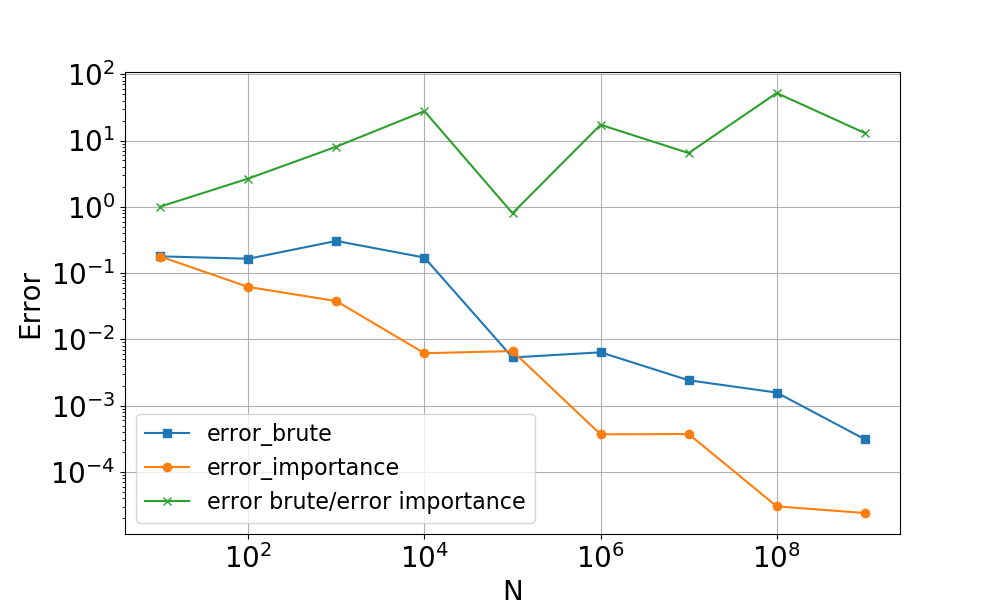
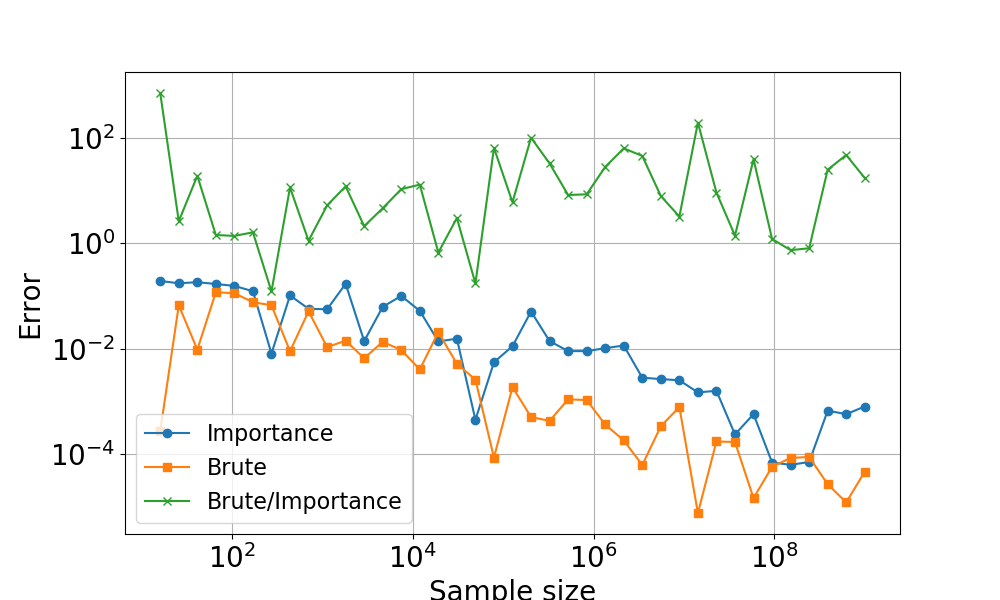
New data and files + writing

diff --git a/Project3/latex/methods.tex b/Project3/latex/methods.tex
@@ -116,7 +116,7 @@ $\phi_1, \phi_2 \in \brak{0, 2\pi}$.
 
 
 \subsection{Gaussian Quadrature}
-Any quadrature rule can be seen as the as sum of the function we are  
+Any quadrature rule can be seen as the as sum of the function we are
 integrating evaluated at specified sample points or integration points $x_i$
 multiplied with a weight $w_i$ \cref{eq:quad_sum}.
 \begin{equation}\label{eq:quad_sum}
@@ -125,27 +125,27 @@ multiplied with a weight $w_i$ \cref{eq:quad_sum}.
 For Gaussian Quadrature (GQ) the
 integration points are given by the roots of an orthogonal polynomial. The
 integration weights are calculated by finding the inverse of a matrix defined by
-the orthogonal polynomial \cref{eq:ort_matrix}.       
+the orthogonal polynomial \cref{eq:ort_matrix}.
 
 \begin{equation}\label{eq:ort_matrix}
   L = \begin{bmatrix}
     L_0(x_0) & L_1(x_0) & \dots & L_{N-1}(x_{0}) \\
     L_0(x_1) & L_1(x_1) & \dots & L_{N-1}(x_{1}) \\
     \\
-    L_0(x_{n-1}) & L_1(x_{n-1}) & \dots & L_{N-1}(x_{n-1}) 
+    L_0(x_{n-1}) & L_1(x_{n-1}) & \dots & L_{N-1}(x_{n-1})
   \end{bmatrix}
 \end{equation}
 The different orthogonal polynomial are defined over specific intervals, for
 instance Legendre polynomials are defined for $x \in [-1, 1]$. Legendre
 polynomials can still be used to for solving integrals over with limits other
-than $[-1,1]$ by using transformation of variables. 
+than $[-1,1]$ by using transformation of variables.
 \begin{equation}
   t = \frac{b-a}{2}x + \frac{b+a}{2}
-\end{equation} 
+\end{equation}
 Then rewrite integral for an interval $[a,b]$,
 \begin{equation}
   \int_a^b f(t)dt = \frac{b-a}{2}\int_{-1}^{1} f\left(\frac{b-a}{2}x + \frac{b+a}{2}\right)
-\end{equation} 
+\end{equation}
 
 An issue with using Legendre polynomials to generate our sample points and
 weight is that the physical problem \cref{eq:int} we are interested in involves an
@@ -159,5 +159,13 @@ which are defined in the following way.
 \end{equation}
 Something that is important to note about Laguerre polynomials is that
 $e^{-\alpha x}$ is baked into weights which means that we have to divide
-\cref{eq:int_spherical} by $e^{-(r_1 + r_2)}$. 
+\cref{eq:int_spherical} by $e^{-(r_1 + r_2)}$.
 
+
+
+\subsection{Experimental setup}
+
+The code was run on a laptop with eight cores. For the MCI the number of samples
+for each experiment was taken on logarithmic intervals, with 40 different values
+of sample points between 10 and 10$^9$. The QG experiments were run with the number
+of integration points between 2 and 40.

diff --git a/Project3/latex/results.tex b/Project3/latex/results.tex
@@ -1,17 +1,5 @@
 \section{Results}
 
-\subsection{Gaussian Quadrature}
-
-\begin{figure}[H]
-  \centering
-  \includegraphics[width=0.8\textwidth]{../figures/gauss_error.png}
-  \caption{Absolute value of difference between gaussian quadrature results and analytical
-  solution using Legendre and Laguerre polynomials..}
-
-  \label{fig:gauss_error}
-\end{figure}
-
-
 \subsection{Monte-Carlo integration}
 
 \subsubsection{Error and accuracy}
@@ -62,13 +50,41 @@ a great boost to the run time.
 \end{figure}
 
 
-\subsubsection{Comparison of Gaussian Quadrature and Monte-Carlo Integration}
+\subsection{Gaussian Quadrature}
+
+The error of the GQ methods \cref{fig:gauss_error} shows that GQLeg gives relatively
+low(high) errors when the number of integration points are odd(even). For GQLeg
+the error seems to converge around roughly \num{ 5e-3}, and never reaches the
+desired error of $10^{-3}$. The GQLag do reach the desired error at N = 14 and 15,
+but for higher Ns the error converges to \num{2e-3}, and does not show the oscillatory
+nature of the GQLeg.
+
+\begin{figure}[H]
+  \centering
+  \includegraphics[width=0.8\textwidth]{../figures/gauss_error.png}
+  \caption{Absolute value of difference between gaussian quadrature results and analytical
+  solution using Legendre and Laguerre polynomials..}
+
+  \label{fig:gauss_error}
+\end{figure}
+
+
+\subsection{Comparison of Gaussian Quadrature and Monte-Carlo Integration}
+
+To clarify whether running Gaussian Quadrature or Monte-Carlo Integration would
+give the best results for a given run time we made error-runtime plots for all
+of the methods we have used \cref{fig:time_compare}. For MCI low values of runtime
+corresponds to few samples, and for GQ it corresponds to a small number of integration points.
+For the shortest runtimes the results of MCI were a bit all over the place, but
+looking at longer runtimes we see a clear trend of the error decreasing, especially
+for the importance sampling.
+
 
 \begin{figure}[H]
   \centering
   \includegraphics[width=0.8\textwidth]{../figures/time_compare.png}
-  \caption{Run time of unparallelized divided by parallelized version
-          of the importance sampling algorithm.}
+  \caption{Absolute values of the error as a function of time for all methods we
+  used to approximate the integral.}
 
   \label{fig:time_compare}
 \end{figure}
